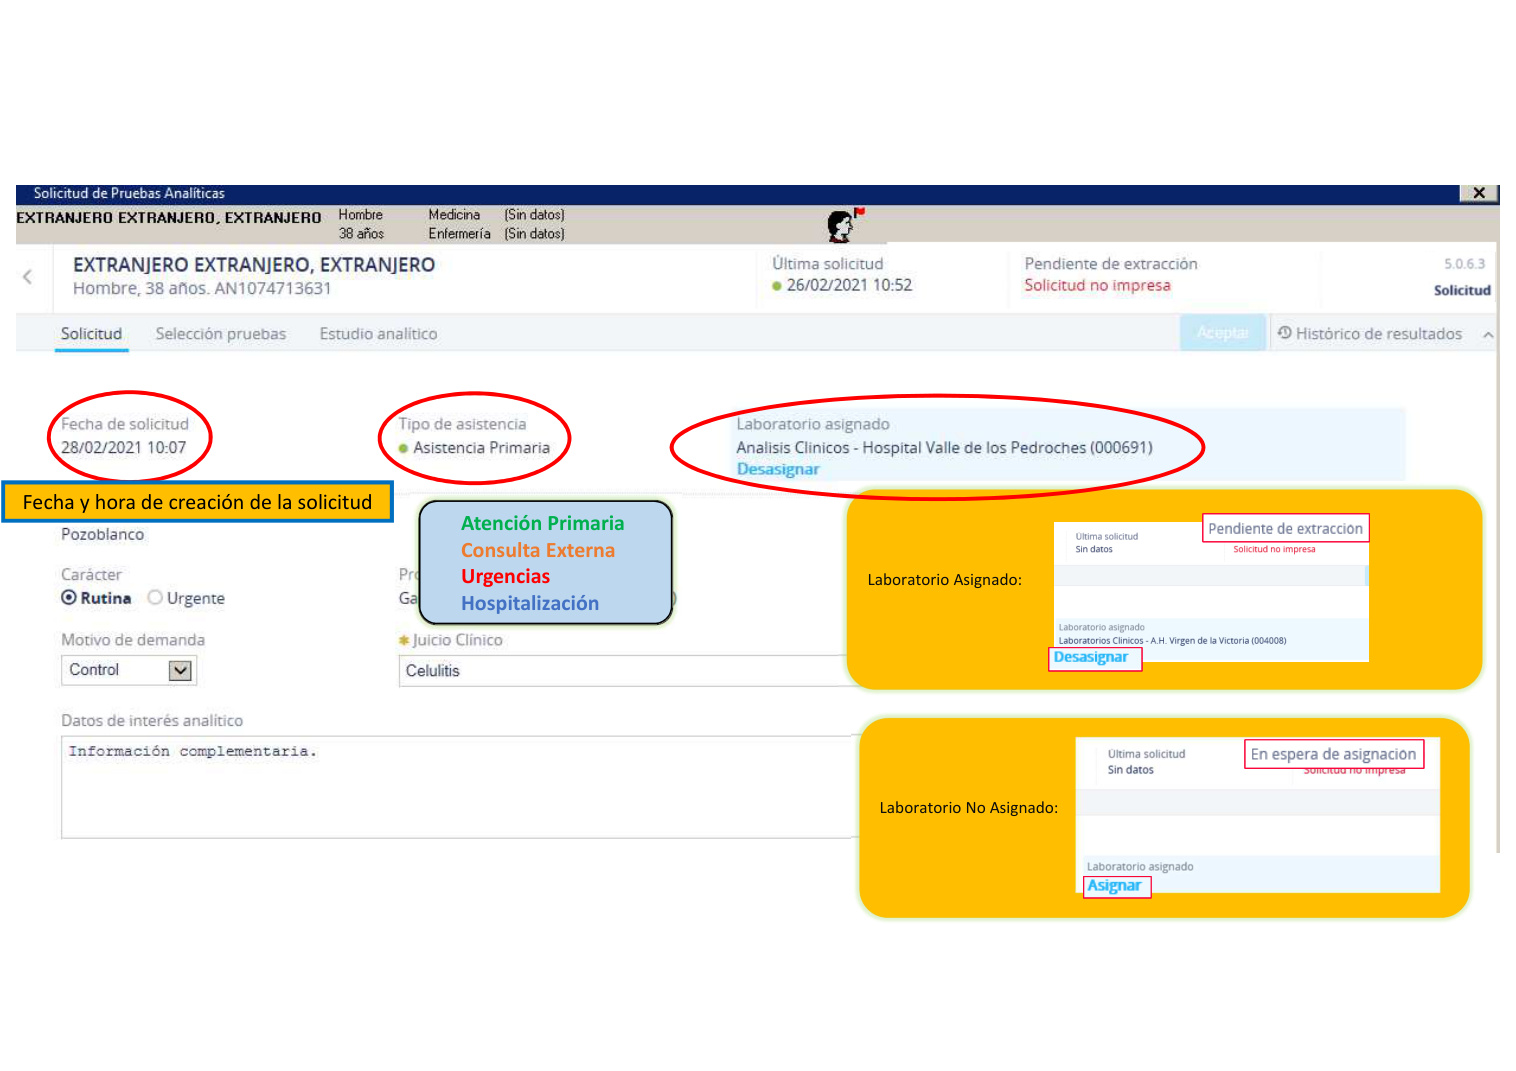
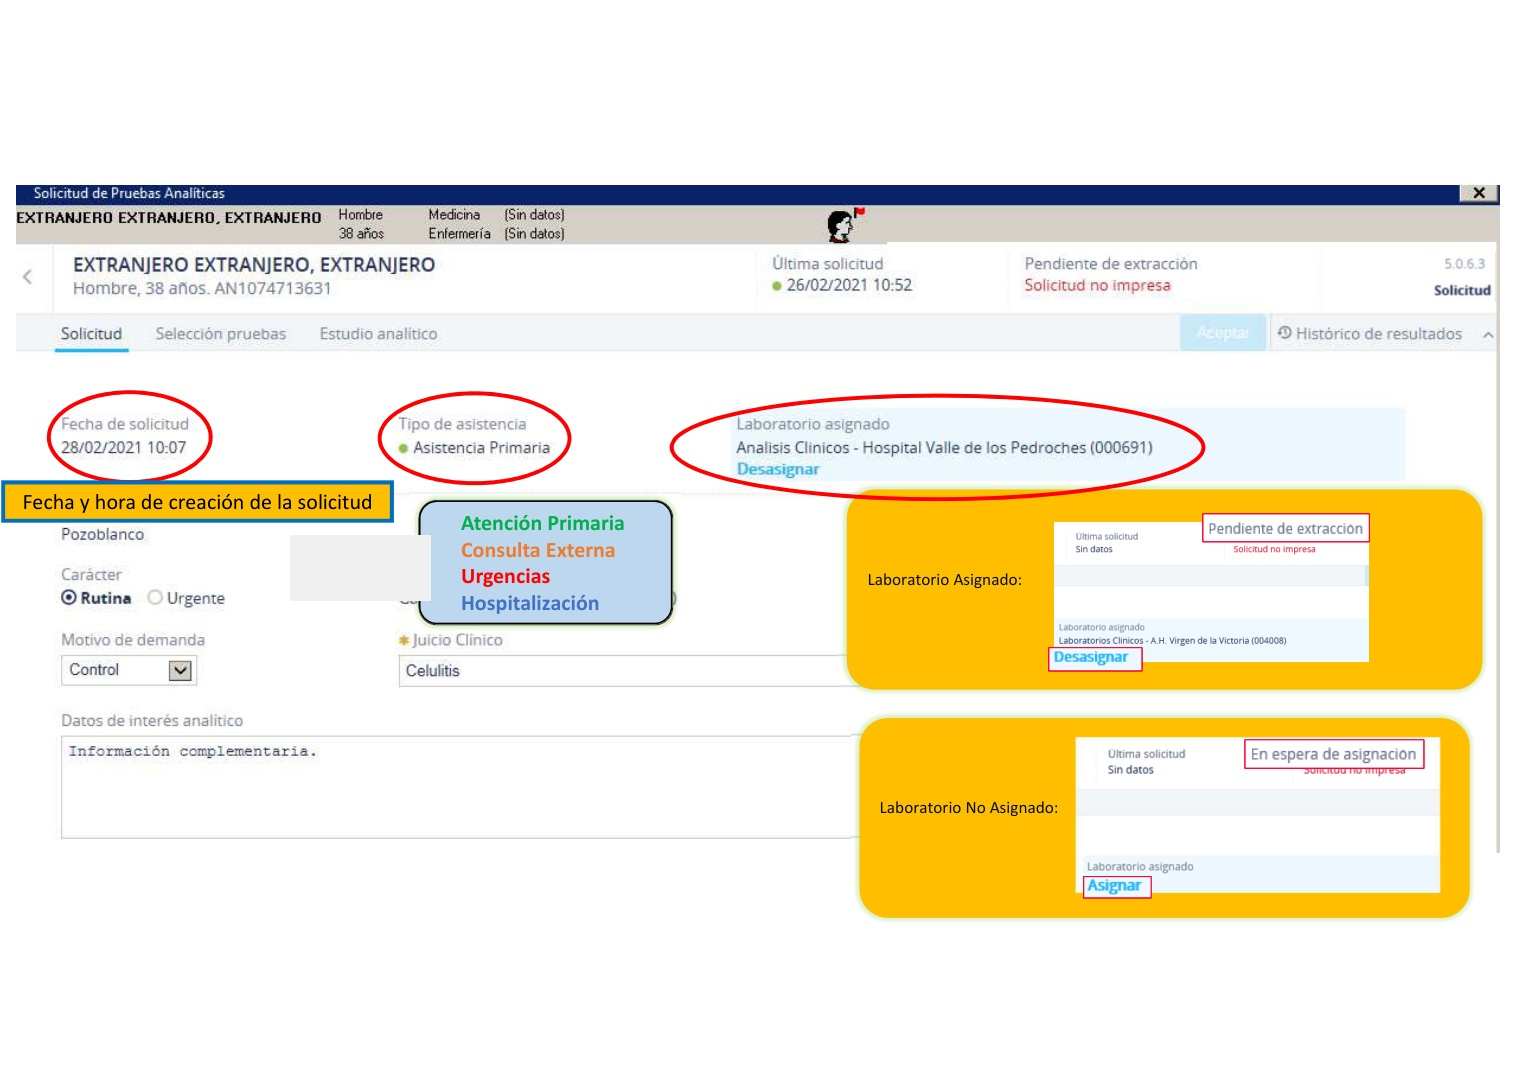
Eliminar datos personales del profesional + firma iActivaPráctica
- Redactado nombre y CNP de Félix Gascón Luna en pag12, pag13, pag14
- Añadida firma iactivapractica.es en el pie de página

diff --git a/index.html b/index.html
@@ -135,6 +135,12 @@
     .final-card p  { font-size: .98rem; color: var(--texto-suave); max-width: 420px; margin: 0 auto; }
 
     @media (max-width:600px) { .step-card { padding: 20px 16px; } .step-card h2 { font-size: 1.1rem; } }
+
+    /* FOOTER */
+    .site-footer { text-align: center; padding: 22px 16px 30px; margin-top: 12px; }
+    .site-footer a { color: var(--azul); text-decoration: none; font-weight: 700; font-size: .88rem; letter-spacing: .3px; }
+    .site-footer a:hover { text-decoration: underline; }
+    .site-footer span { font-size: .78rem; color: var(--texto-suave); display: block; margin-top: 3px; }
   </style>
 </head>
 <body>
@@ -640,5 +646,10 @@ document.addEventListener('keydown', e => { if (e.key === 'Escape') closeLightbo
 
 render(0);
 </script>
+
+<footer class="site-footer">
+  <a href="https://www.iactivapractica.es" target="_blank" rel="noopener">iActivaPráctica.es</a>
+  <span>IA &amp; Tecnología para negocios</span>
+</footer>
 </body>
 </html>
